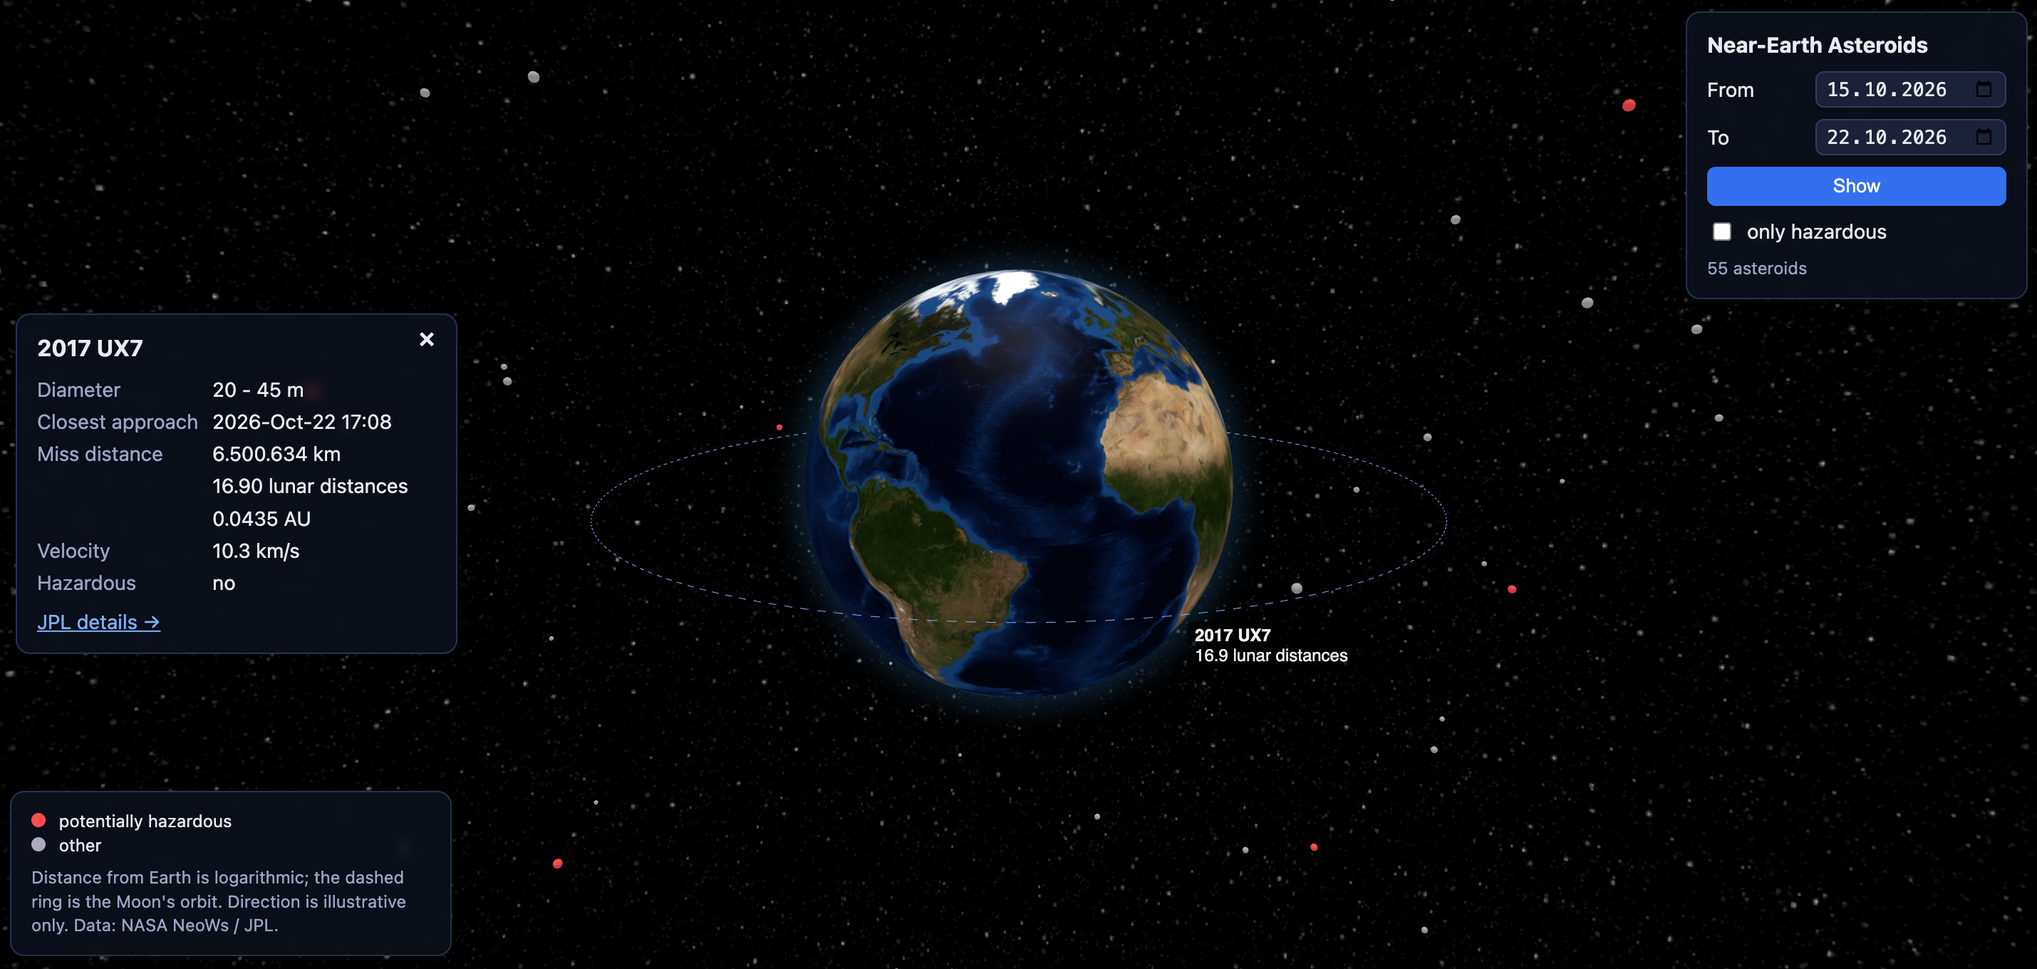
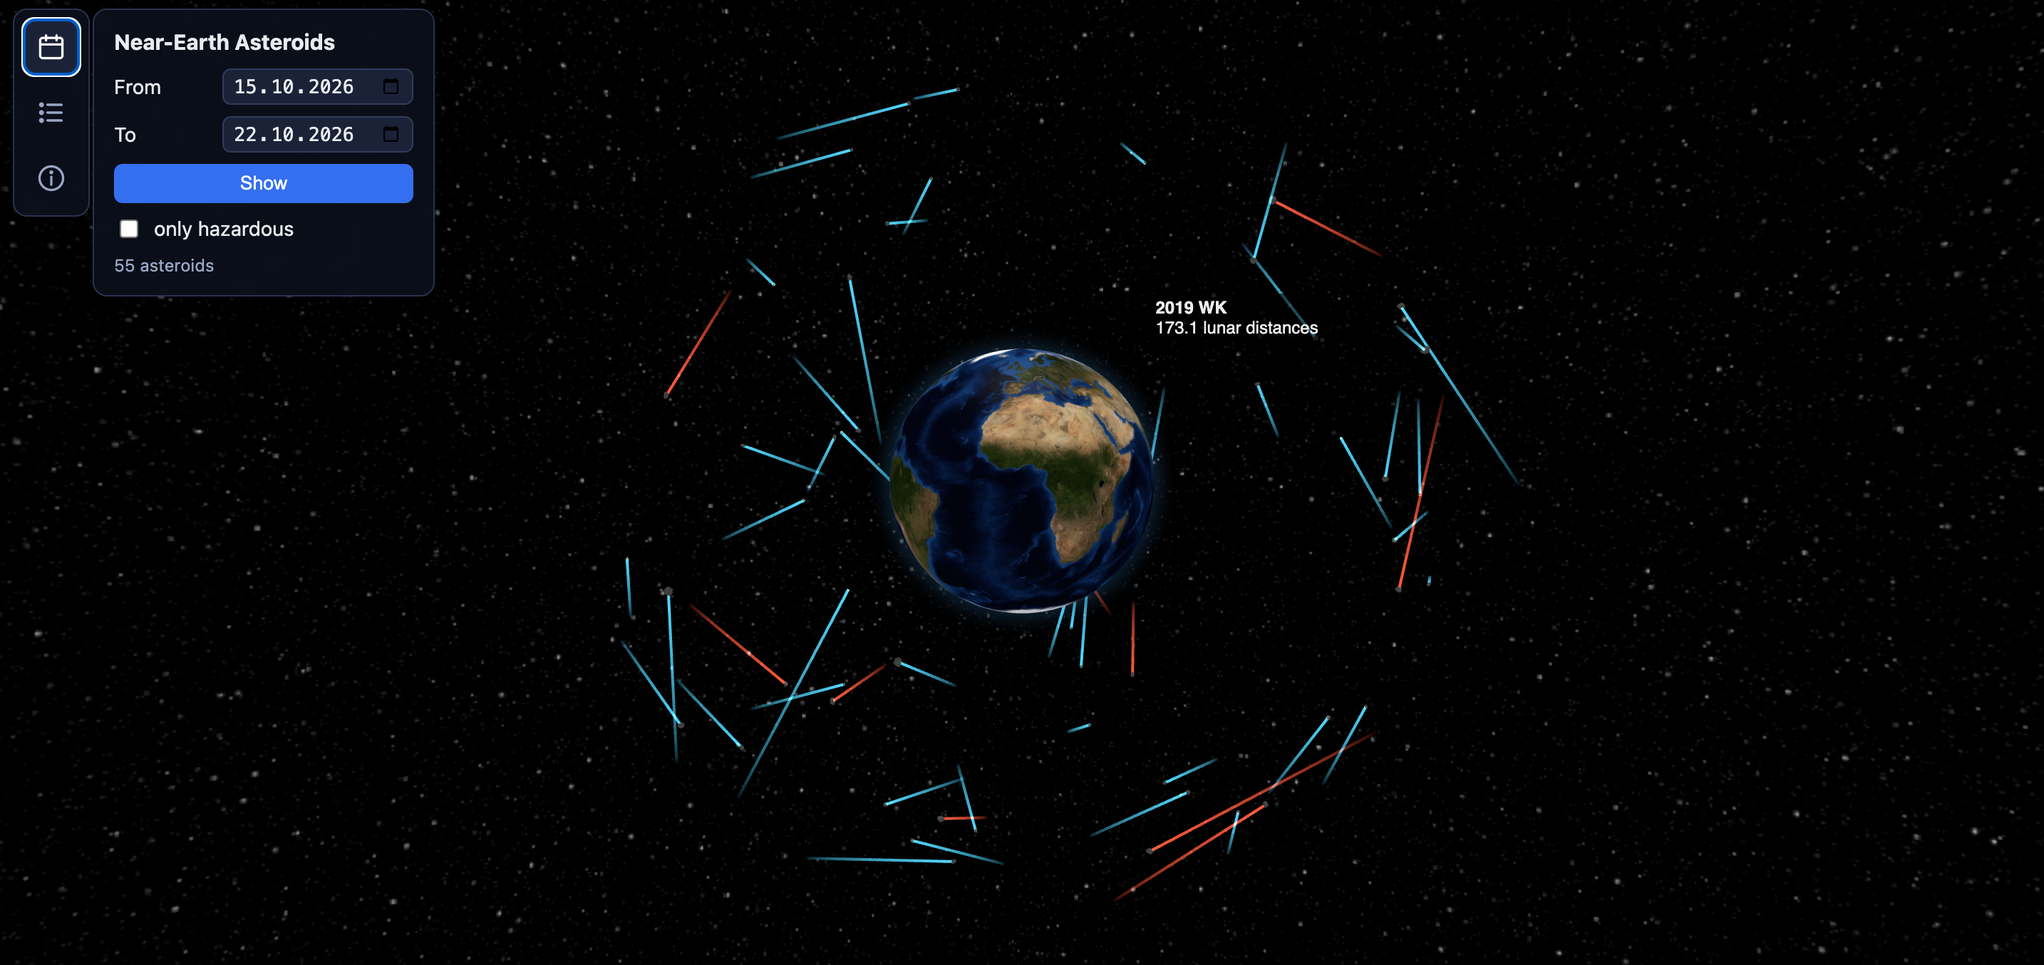
Update zoom-in animation, textures, tails, add navigation bar

diff --git a/static/app.js b/static/app.js
@@ -1,8 +1,13 @@
 import * as THREE from 'https://esm.sh/three@0.180.0';
+import { Line2 } from 'https://esm.sh/three@0.180.0/examples/jsm/lines/Line2.js';
+import { LineMaterial } from 'https://esm.sh/three@0.180.0/examples/jsm/lines/LineMaterial.js';
+import { LineGeometry } from 'https://esm.sh/three@0.180.0/examples/jsm/lines/LineGeometry.js';
 import Globe from 'https://esm.sh/globe.gl@2.46.2?deps=three@0.180.0';
 
 const EARTH_R_KM = 6371;
 const K = 0.5; // altitude = K * log10(1 + miss_km / EARTH_R_KM), in globe radii
+const ZOOM_IN_TIME_MS = 3000
+const ZOOM_OUT_TIME_MS = 3000
 
 const $ = id => document.getElementById(id);
 let asteroids = [];
@@ -20,21 +25,34 @@ function place(a) {
   const lng = hash(a.id, 2) * 360 - 180;
   return { ...a, lat, lng, alt: altitudeOf(a.miss_km) };
 }
-// Lumpy, elongated rock: an ellipsoid with a few seeded low-frequency bumps.
-// Displacement depends only on the vertex direction, so the faceted mesh stays closed.
+// Angular, cratered rock: a lumpy ellipsoid, cut by a few flat planes (sharp edges and corners),
+// pitted with craters and roughened by ridged noise. Displacement depends only on the vertex
+// direction, so the faceted mesh stays closed.
 function asteroidGeometry(a) {
-  const size = sizeOf(a), id = a.id;
-  const axes = [0, 1, 2].map(i => 0.65 + 0.55 * hash(id, 20 + i));
+  const size = sizeOf(a), id = a.id, h = (i, j = 0) => hash(id, i + j);
+  const unit = i => new THREE.Vector3(h(i) - .5, h(i, 100) - .5, h(i, 200) - .5).normalize();
+  const axes = [0, 1, 2].map(i => 0.65 + 0.55 * h(20 + i));
   const bumps = Array.from({ length: 5 }, (_, i) => ({
-    dir: new THREE.Vector3(hash(id, 30 + i) - .5, hash(id, 40 + i) - .5, hash(id, 50 + i) - .5).normalize(),
-    freq: 2 + 5 * hash(id, 60 + i), phase: 6.28 * hash(id, 70 + i), amp: 0.16 / (1 + i * 0.6),
+    dir: unit(30 + i), freq: 2 + 5 * h(60 + i), phase: 6.28 * h(70 + i), amp: 0.16 / (1 + i * 0.6),
   }));
-  const geo = new THREE.IcosahedronGeometry(1, 4);
+  const cuts = Array.from({ length: 9 }, (_, i) => ({ n: unit(300 + i), c: 0.72 + 0.22 * h(320 + i) }));
+  const craters = Array.from({ length: 7 }, (_, i) => ({
+    dir: unit(400 + i), rho: 0.18 + 0.4 * h(420 + i), depth: 0.05 + 0.1 * h(440 + i),
+  }));
+  const noise = Array.from({ length: 4 }, (_, i) => ({ dir: unit(500 + i), freq: 9 + 6 * i, phase: 6.28 * h(520 + i) }));
+  const geo = new THREE.IcosahedronGeometry(1, 5);
   const p = geo.attributes.position, d = new THREE.Vector3();
   for (let i = 0; i < p.count; i++) {
     d.fromBufferAttribute(p, i).normalize();
     let r = 1;
     for (const b of bumps) r += b.amp * Math.sin(b.freq * d.dot(b.dir) * Math.PI + b.phase);
+    for (const c of cuts) { const k = d.dot(c.n); if (k > 0) r = Math.min(r, c.c / k); }
+    for (const c of craters) {
+      const t = Math.acos(Math.min(1, d.dot(c.dir))) / c.rho;
+      if (t < 1) r -= c.depth * (1 - t * t);
+      r += 0.35 * c.depth * Math.exp(-(((t - 1) / 0.18) ** 2)); // raised rim
+    }
+    for (const n of noise) r += 0.012 * (1 - 2 * Math.abs(Math.sin(n.freq * d.dot(n.dir) + n.phase)));
     p.setXYZ(i, d.x * r * axes[0] * size, d.y * r * axes[1] * size, d.z * r * axes[2] * size);
   }
   geo.computeVertexNormals();
@@ -45,22 +63,64 @@ rockTexture.colorSpace = THREE.SRGBColorSpace;
 const rockMaterial = new THREE.MeshLambertMaterial({
   map: rockTexture, bumpMap: rockTexture, bumpScale: 2, color: 0x8a8a8a, flatShading: true });
 
+// Sharper texture, loaded on first focus and swapped in once the camera has arrived.
+let rockTextureHi = null, zoomedIn = false;
+function useRockTexture(tex) {
+  rockMaterial.map = rockMaterial.bumpMap = tex;
+  rockMaterial.needsUpdate = true;
+}
+function loadRockTextureHi() {
+  if (rockTextureHi) return;
+  rockTextureHi = new THREE.TextureLoader().load('textures/rock_4k.jpg', tex => zoomedIn && useRockTexture(tex));
+  rockTextureHi.colorSpace = THREE.SRGBColorSpace;
+  rockTextureHi.anisotropy = globe.renderer().capabilities.getMaxAnisotropy();
+}
+
 const sizeOf = a => Math.max(1.2, 0.8 + 0.9 * Math.log10(Math.max(a.diameter_max_m, 10) / 10));
 
+// Hypothetical flight path: a straight, fading trail ending at the asteroid, tangent to Earth's
+// radial direction, with length proportional to its speed. Like the position, it is illustrative.
+const PATH_LEN_PER_KMS = 6, pathMats = new Map(); // asteroid id -> LineMaterial
+function pathLine(a) {
+  const c = globe.getCoords(a.lat, a.lng, a.alt);
+  const radial = new THREE.Vector3(c.x, c.y, c.z).normalize();
+  const rnd = new THREE.Vector3(hash(a.id, 80) - .5, hash(a.id, 81) - .5, hash(a.id, 82) - .5);
+  let v = new THREE.Vector3().crossVectors(radial, rnd);
+  if (v.lengthSq() < 1e-6) v.set(1, 0, 0);
+  v.normalize();
+  const len = PATH_LEN_PER_KMS * a.velocity_kms;
+  const tail = v.clone().multiplyScalar(-len), head = new THREE.Vector3(); // ends at the asteroid
+  const col = new THREE.Color(a.hazardous ? 0xff5a3c : 0x4fd8ff);
+  const geo = new LineGeometry();
+  geo.setPositions([tail.x, tail.y, tail.z, head.x, head.y, head.z]);
+  geo.setColors([0, 0, 0, col.r, col.g, col.b]); // fades from black (invisible when additive) to full colour
+  const mat = new LineMaterial({
+    linewidth: 2, vertexColors: true, transparent: true, depthWrite: false, blending: THREE.AdditiveBlending });
+  mat.resolution.set(innerWidth, innerHeight);
+  pathMats.set(a.id, mat);
+  return new Line2(geo, mat);
+}
+
+const HIT_MIN_R = 6; // globe units; minimum radius of the invisible click target around an asteroid
 const globe = Globe()($('globe'))
   .globeImageUrl('https://unpkg.com/three-globe/example/img/earth-blue-marble.jpg')
   .bumpImageUrl('https://unpkg.com/three-globe/example/img/earth-topology.png')
   .backgroundImageUrl('https://unpkg.com/three-globe/example/img/night-sky.png')
   .showAtmosphere(true)
   .customLayerData([])
-  .customThreeObject(a => new THREE.Mesh(
-    asteroidGeometry(a),
-    rockMaterial))
+  .customThreeObject(a => {
+    const group = new THREE.Group();
+    // Invisible sphere that enlarges the clickable/hoverable area (raycasting ignores material.visible).
+    const hit = new THREE.Mesh(new THREE.SphereGeometry(Math.max(HIT_MIN_R, sizeOf(a) * 2.5), 8, 6),
+      new THREE.MeshBasicMaterial({ visible: false }));
+    group.add(new THREE.Mesh(asteroidGeometry(a), rockMaterial), pathLine(a), hit);
+    return group;
+  })
   .customThreeObjectUpdate((obj, a) => Object.assign(obj.position, globe.getCoords(a.lat, a.lng, a.alt)))
   .customLayerLabel(a => `<b>${a.name}</b><br>${a.miss_lunar.toFixed(1)} lunar distances`)
   .onCustomLayerClick(focusAsteroid);
 
-globe.controls().autoRotate = true;
+globe.controls().autoRotate = false;
 globe.controls().autoRotateSpeed = 0.15;
 globe.controls().addEventListener('start', () => globe.controls().autoRotate = false);
 globe.pointOfView({ altitude: 7 }); // 8 Earth radii from the centre
@@ -101,7 +161,10 @@ function applyOffset(f) {
   if (f) camera.setViewOffset(W, H, -W / 4 * f, 0, W, H); // shifts the view centre toward the right half
   else camera.clearViewOffset();
 }
-addEventListener('resize', () => offsetFrac && applyOffset(offsetFrac));
+addEventListener('resize', () => {
+  offsetFrac && applyOffset(offsetFrac);
+  pathMats.forEach(m => m.resolution.set(innerWidth, innerHeight));
+});
 
 // The camera orbits around Earth (direction slerp + radius lerp) so it never cuts through the
 // globe; the look-at point reaches the asteroid early on the way in and leaves it late on the way out.
@@ -127,7 +190,11 @@ function fly(toPos, toTarget, toOffset, ms, done, targetEarly = true) {
   })(t0);
 }
 
+let focusedId = null;
+const highlightPath = id => pathMats.forEach((m, k) => m.linewidth = k === id ? 4 : 2);
+
 function focusAsteroid(a) {
+  highlightPath(focusedId = a.id);
   if (!saved) saved = {
     pos: camera.position.clone(), target: controls.target.clone(),
     min: controls.minDistance, max: controls.maxDistance, zoomToCursor: controls.zoomToCursor,
@@ -141,22 +208,84 @@ function focusAsteroid(a) {
   if (side.lengthSq() < 1e-6) side.set(1, 0, 0);
   side.normalize();
   controls.minDistance = 1; controls.maxDistance = 1000; controls.zoomToCursor = false;
-  fly(pos.clone().addScaledVector(side, sizeOf(a) * 3.4), pos, 1, 2500);
+  loadRockTextureHi();
+  fly(pos.clone().addScaledVector(side, sizeOf(a) * 3.4), pos, 1, ZOOM_IN_TIME_MS, () => {
+    zoomedIn = true;
+    if (rockTextureHi.image) useRockTexture(rockTextureHi); // else swapped in by its load callback
+  });
 }
 
 function unfocus() {
   document.body.classList.remove('focused');
   $('info').classList.add('hidden');
   if (!saved) return;
+  highlightPath(focusedId = null);
+  zoomedIn = false;
+  useRockTexture(rockTexture);
   const s = saved; saved = null;
-  fly(s.pos, s.target, 0, 2000, () => { controls.minDistance = s.min; controls.maxDistance = s.max; controls.zoomToCursor = s.zoomToCursor; }, false);
+  fly(s.pos, s.target, 0, ZOOM_OUT_TIME_MS, () => { controls.minDistance = s.min; controls.maxDistance = s.max; controls.zoomToCursor = s.zoomToCursor; }, false);
 }
 $('close').onclick = unfocus;
-addEventListener('keydown', e => e.key === 'Escape' && unfocus());
+addEventListener('keydown', e => {
+  if (e.key !== 'Escape') return;
+  if (openPanel) showPanel(null); else unfocus();
+});
 
 function render() {
   const only = $('onlyHazardous').checked;
-  globe.customLayerData(asteroids.filter(a => !only || a.hazardous).map(place));
+  pathMats.clear(); // objects are rebuilt below
+  visible = asteroids.filter(a => !only || a.hazardous).map(place);
+  globe.customLayerData(visible);
+  renderTable();
+}
+
+// --- Navigation: date range / asteroid list / information ---
+let visible = [], openPanel = null, sort = { key: 'miss_km', desc: false };
+const PANELS = ['controls', 'list', 'about'];
+function showPanel(name) {
+  openPanel = name === openPanel ? null : name;
+  PANELS.forEach(p => $(p).classList.toggle('hidden', p !== openPanel));
+  document.querySelectorAll('#nav button').forEach(b => b.classList.toggle('active', b.dataset.target === openPanel));
+}
+document.querySelectorAll('#nav button').forEach(b => b.onclick = () => showPanel(b.dataset.target));
+document.querySelectorAll('.modal-close').forEach(b => b.onclick = () => showPanel(null));
+
+const COLUMNS = [
+  { key: 'name', label: 'Name' },
+  { key: 'approach_datetime', label: 'Closest approach', get: a => a.approach_datetime || a.approach_date },
+  { key: 'diameter_max_m', label: 'Diameter', get: a => `${a.diameter_min_m.toFixed(0)} - ${a.diameter_max_m.toFixed(0)} m` },
+  { key: 'miss_km', label: 'Miss distance', get: a => `${Math.round(a.miss_km).toLocaleString()} km` },
+  { key: 'miss_lunar', label: 'Lunar distances', get: a => a.miss_lunar.toFixed(2) },
+  { key: 'miss_au', label: 'AU', get: a => a.miss_au.toFixed(4) },
+  { key: 'velocity_kms', label: 'Velocity', get: a => `${a.velocity_kms.toFixed(1)} km/s` },
+  { key: 'hazardous', label: 'Hazardous', get: a => a.hazardous ? 'yes' : 'no' },
+];
+function renderTable() {
+  $('list-count').textContent = `(${visible.length})`;
+  $('list-head').replaceChildren(...COLUMNS.map(c => {
+    const th = document.createElement('th');
+    th.textContent = c.label;
+    th.classList.toggle('sorted', sort.key === c.key);
+    th.classList.toggle('desc', sort.key === c.key && sort.desc);
+    th.onclick = () => { sort = { key: c.key, desc: sort.key === c.key && !sort.desc }; renderTable(); };
+    return th;
+  }));
+  const dir = sort.desc ? -1 : 1;
+  const rows = [...visible].sort((x, y) => {
+    const u = x[sort.key], v = y[sort.key];
+    return dir * (typeof u === 'string' ? u.localeCompare(v) : Number(u) - Number(v));
+  });
+  $('list-body').replaceChildren(...rows.map(a => {
+    const tr = document.createElement('tr');
+    tr.append(...COLUMNS.map(c => {
+      const td = document.createElement('td');
+      td.textContent = c.get ? c.get(a) : a[c.key];
+      if (c.key === 'hazardous' && a.hazardous) td.className = 'haz';
+      return td;
+    }));
+    tr.onclick = () => { showPanel(null); focusAsteroid(a); };
+    return tr;
+  }));
 }
 
 async function load(start, end) {
@@ -177,5 +306,12 @@ const iso = d => d.toISOString().slice(0, 10);
 const today = new Date(), weekLater = new Date(Date.now() + 7 * 864e5);
 $('start').value = iso(today); $('end').value = iso(weekLater);
 $('controls').addEventListener('submit', e => { e.preventDefault(); load($('start').value, $('end').value); });
+// Picking a start date pre-fills the end date with start + 7 days and moves focus there.
+$('start').addEventListener('change', () => {
+  if (!$('start').value) return;
+  $('end').value = iso(new Date(new Date($('start').value).getTime() + 7 * 864e5));
+  $('end').focus();
+  try { $('end').showPicker?.(); } catch {} // needs a recent user gesture; focus alone is the fallback
+});
 $('onlyHazardous').addEventListener('change', render);
 load($('start').value, $('end').value);

diff --git a/static/index.html b/static/index.html
@@ -5,11 +5,24 @@
     <meta name="viewport" content="width=device-width, initial-scale=1">
     <title>Near-Earth Asteroid Tracker</title>
     <link rel="stylesheet" href="style.css">
+    <link rel="icon" type="image/png" sizes="32x32" href="../images/asteroid.png">
 </head>
 <body>
 <div id="globe"></div>
 
-<form id="controls" class="panel">
+<nav id="nav" class="panel" aria-label="Main">
+    <button type="button" data-target="controls" title="Date range" aria-label="Date range">
+        <svg viewBox="0 0 24 24"><rect x="3.5" y="5" width="17" height="15.5" rx="2"/><path d="M3.5 10h17M8 3v4M16 3v4"/></svg>
+    </button>
+    <button type="button" data-target="list" title="Asteroid list" aria-label="Asteroid list">
+        <svg viewBox="0 0 24 24"><path d="M9 6h11M9 12h11M9 18h11"/><circle cx="4.5" cy="6" r="1" /><circle cx="4.5" cy="12" r="1"/><circle cx="4.5" cy="18" r="1"/></svg>
+    </button>
+    <button type="button" data-target="about" title="Information" aria-label="Information">
+        <svg viewBox="0 0 24 24"><circle cx="12" cy="12" r="9"/><path d="M12 11v6"/><circle cx="12" cy="7.5" r=".6"/></svg>
+    </button>
+</nav>
+
+<form id="controls" class="panel hidden">
     <h1>Near-Earth Asteroids</h1>
     <label>From <input type="date" id="start" required></label>
     <label>To <input type="date" id="end" required></label>
@@ -25,11 +38,40 @@
     <a id="i-link" target="_blank" rel="noopener">JPL details &rarr;</a>
 </div>
 
-<div id="legend" class="panel">
-    <div class="note">Distance from Earth is logarithmic. Direction is illustrative only.
-        Data: NASA NeoWs / JPL.
+<section id="list" class="panel modal hidden">
+    <button class="modal-close" aria-label="Close">&times;</button>
+    <h2>Asteroids <span id="list-count"></span></h2>
+    <div class="table-wrap">
+        <table>
+            <thead><tr id="list-head"></tr></thead>
+            <tbody id="list-body"></tbody>
+        </table>
     </div>
-</div>
+</section>
+
+<section id="about" class="panel modal hidden">
+    <button class="modal-close" aria-label="Close">&times;</button>
+    <h2>About this view</h2>
+    <ul>
+        <li><b>Distance is logarithmic.</b> An asteroid's distance from Earth's surface is drawn as
+            <code>0.5 &times; log10(1 + miss&nbsp;km / 6371)</code> globe radii, so near and far passes both fit on screen.
+            Distances are not proportional. The exact numbers are in the list and the detail view.</li>
+        <li><b>Directions are made up.</b> NASA's feed gives how close an asteroid passes, not where in the sky.
+            Each asteroid's direction is derived from a hash of its ID, so it is stable but not real.</li>
+        <li><b>The trails are imaginary.</b> They are straight lines ending at the asteroid, sideways to Earth.
+            Their length is proportional to the asteroid's speed. They are not real orbits or flight paths.
+            Cyan trails are normal asteroids, orange-red ones are potentially hazardous.</li>
+        <li><b>Sizes are not to scale.</b> Asteroids are drawn far larger than their true size relative to Earth
+            (they would be invisible otherwise), and larger asteroids are only somewhat larger on screen.</li>
+        <li><b>Shapes are generated.</b> Each asteroid's lumpy, cratered shape is procedural, derived from its ID.
+            Only its diameter range is real data. The surface textures are of the Moon, not of the asteroids.</li>
+        <li><b>&ldquo;Potentially hazardous&rdquo;</b> is NASA's label for asteroids that can come within 0.05 AU
+            (about 7.5 million km) of Earth's orbit and are larger than about 140 m. It does not mean a collision is expected.</li>
+        <li><b>Units.</b> 1 lunar distance = 384,400 km. 1 AU = about 149.6 million km.
+            Miss distance is the closest approach to Earth's centre. The date range filters by closest-approach date.</li>
+        <li><b>Data</b> from NASA NeoWs / JPL. Textures: NASA SVS (LROC Moon colour map), three.js and three-globe example images.</li>
+    </ul>
+</section>
 
 <script type="module" src="app.js"></script>
 </body>

diff --git a/static/style.css b/static/style.css
@@ -3,7 +3,7 @@ html, body { margin: 0; height: 100%; background: #000; color: #e8ecf1;
 #globe { position: fixed; inset: 0; }
 .panel { position: fixed; background: rgba(12, 16, 28, .85); border: 1px solid #2a3350;
   border-radius: 10px; padding: 12px 14px; backdrop-filter: blur(4px); }
-#controls { top: 12px; right: 12px; display: flex; flex-direction: column; gap: 8px; width: 210px; }
+#controls { top: 12px; left: 68px; display: flex; flex-direction: column; gap: 8px; width: 210px; }
 #controls h1 { font-size: 15px; margin: 0; }
 #controls label { display: flex; justify-content: space-between; align-items: center; gap: 8px; }
 #controls .check { justify-content: flex-start; }
@@ -21,6 +21,32 @@ button[type=submit] { background: #3b6df0; color: #fff; border: 0; border-radius
 #info a { color: #7fb0ff; font-size: 18px; }
 #close { position: absolute; top: 10px; right: 16px; background: none; border: 0;
   color: inherit; font-size: 34px; cursor: pointer; }
-body.focused #controls, body.focused #legend { display: none; }
-#legend { bottom: 12px; left: 12px; max-width: 280px; font-size: 12px; }
-#legend .note { margin-top: 6px; color: #9aa6c4; }
+.hidden { display: none !important; }
+body.focused #controls, body.focused #nav, body.focused .modal { display: none; }
+
+#nav { top: 12px; left: 12px; padding: 6px; display: flex; flex-direction: column; gap: 6px; }
+#nav button { width: 40px; height: 40px; padding: 8px; background: none; color: #9aa6c4; cursor: pointer;
+  border: 1px solid transparent; border-radius: 8px; }
+#nav button:hover { color: #e8ecf1; background: #1b2238; }
+#nav button.active { color: #fff; background: #1b2238; border-color: #3b6df0; }
+#nav svg { width: 100%; height: 100%; fill: none; stroke: currentColor; stroke-width: 1.8;
+  stroke-linecap: round; stroke-linejoin: round; }
+#nav svg circle[r="1"], #nav svg circle[r=".6"] { fill: currentColor; }
+
+.modal { top: 6vh; left: 68px; width: min(1100px, calc(100vw - 92px)); max-height: 88vh; box-sizing: border-box;
+  overflow: auto; padding: 22px 28px; }
+.modal h2 { margin: 0 0 14px; font-size: 22px; }
+.modal h2 span { font-size: 14px; color: #9aa6c4; font-weight: normal; margin-left: 8px; }
+.modal-close { position: absolute; top: 8px; right: 14px; background: none; border: 0;
+  color: inherit; font-size: 30px; cursor: pointer; }
+#about { width: min(640px, calc(100vw - 92px)); }
+#about ul { margin: 0; padding-left: 18px; display: flex; flex-direction: column; gap: 10px; color: #c5cde0; }
+#about b { color: #e8ecf1; }
+#about code { background: #1b2238; border-radius: 4px; padding: 1px 5px; }
+.table-wrap { overflow: auto; max-height: calc(88vh - 100px); }
+table { border-collapse: collapse; width: 100%; font-size: 13px; }
+th, td { text-align: left; padding: 6px 10px; border-bottom: 1px solid #222a44; white-space: nowrap; }
+th { position: sticky; top: 0; background: #12182b; color: #9aa6c4; cursor: pointer; user-select: none; }
+th.sorted::after { content: ' \25B2'; font-size: 9px; } th.sorted.desc::after { content: ' \25BC'; }
+tbody tr { cursor: pointer; } tbody tr:hover { background: #1b2238; }
+td.haz { color: #ff5a3c; }

diff --git a/README.md b/README.md
@@ -195,4 +195,7 @@ Not a named function. `iso(d)` formats a `Date` as `YYYY-MM-DD`. The code then p
 - **Rate limits.** `DEMO_KEY` allows only about 30 requests per hour. A 31-day range needs up to 5 chunks, so getting your own free key at https://api.nasa.gov and putting it in `.env` is recommended.
 - **Positions are illustrative.** Only the distance is real data (and it is log-scaled). The direction comes from a hash of the asteroid ID. The roadmap item "real approach directions via JPL Horizons" would address this.
 - **Dependency on CDNs.** The frontend needs internet access for the esm.sh libraries and the unpkg textures. The Three.js version must stay compatible with Globe.gl's internals (a version that is too old fails with a missing `Timer` export).
+- **Two-tier asteroid texture.** Asteroids use a 1024px Moon texture from threejs.org while zoomed out. On focus, `static/textures/rock_4k.jpg` (4096px, NASA SVS LROC colour map, public domain, https://svs.gsfc.nasa.gov/4720/) is lazy-loaded and swapped in after the fly-in finishes; `unfocus()` swaps back.
+- **Hypothetical trails.** Each asteroid has a fading `Line2` trail (cyan, or orange-red if hazardous) so it stands out against the starfield without inflating its size. Like the position, the direction is a hash of the ID; the length is proportional to `velocity_kms`. The selected asteroid's trail is drawn thicker.
+- **Navigation.** A vertical icon bar (top left) opens one panel at a time: the date range form (hidden by default), a sortable table of the currently visible asteroids (clicking a row triggers the same fly-in as clicking the asteroid on the globe), and an information panel with the caveats listed here. Escape closes an open panel before it unfocuses an asteroid.
 - **Unauthenticated API.** The endpoint has no auth or rate limiting of its own, which is fine for local use but needs attention before public deployment.
